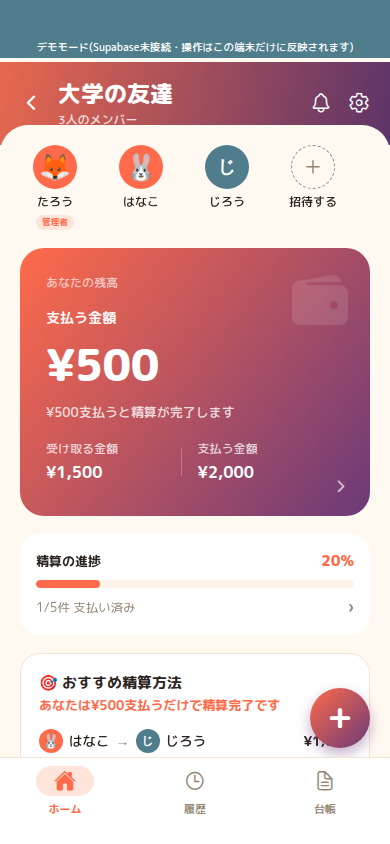
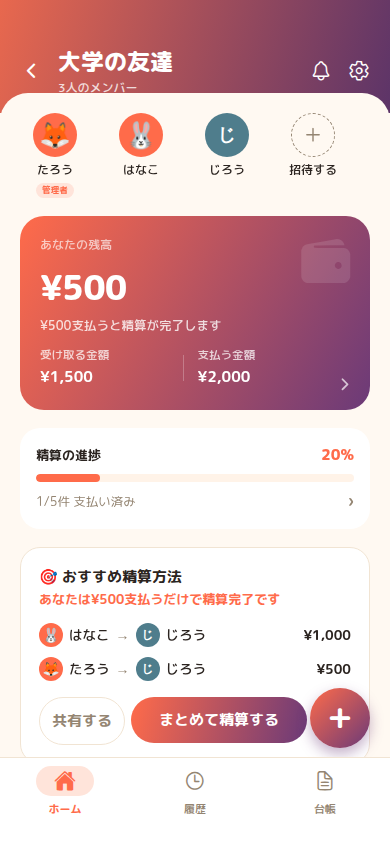
kashikari: デモモードバナーを削除、残高カードのサイズ調整
「デモモードの上部は消せないの？大学の友達タブと重なってしまってる」
「あなたの残高の欄が画像と比べて大きすぎるからサイズ調整して」
「あなたの残高の下の支払う金額はいらない」の3点への対応。
スキーマ変更なし。

- DemoGroupScreen.tsxのヘッダーに重なっていた「デモモード」バナーを
  削除。バナーが兼ねていたステータスバー避けの余白は、削除にあわせて
  ヘッダー自体のpaddingTopを本番のGroupScreen.tsxと同じ値(44)に戻した
- NetSummary.tsx(残高カード)のpadding・金額のフォントサイズ・各要素
  間の余白を全体的に詰め、参考画像に近いサイズに縮小した
- 見出し(「あなたの残高」)のすぐ下にあった「支払う金額/受け取る金額」
  ラベルを削除(下の説明文で方向は伝わるため重複していた)
- 未使用になったdemo.bannerのi18n文字列(ja/en)も削除

tsc --noEmit / expo export --platform web(通常+デモモード)とも
問題なし。Playwrightでバナーが消えていること・残高カードが縮小
されていることを確認済み。

Claude-Session: https://claude.ai/code/session_016w6H5fipiVvbtfX7sgu87W

diff --git a/personal-side-projects/kashikari/mobile/src/components/NetSummary.tsx b/personal-side-projects/kashikari/mobile/src/components/NetSummary.tsx
@@ -48,11 +48,7 @@ export default function NetSummary({ totals, balances, meId }: Props) {
           シェブロン(装飾。すぐ下に内訳セクションが続くため、タップ先は
           別途持たせていない)を添えた。「主役は金額」という指摘を受け、
           財布アイコンは金額の邪魔にならないよう、より薄くしている。 */}
-      <Ionicons name="wallet" size={64} color="rgba(255,255,255,0.12)" style={styles.walletIcon} />
-      {/* 「『あなたの残高』と『支払う金額』が混同しやすい」という指摘への
-          対応: 見出し(heading)はグループ名の下にある小さな添え書きとして
-          さらに控えめにし、「支払う金額/受け取る金額」のラベルを金額の
-          直前に来る一番の主張点として太さ・不透明度を上げた。 */}
+      <Ionicons name="wallet" size={56} color="rgba(255,255,255,0.12)" style={styles.walletIcon} />
       <Text style={styles.heading}>{t.netSummary.heading}</Text>
       {totals.map((total, i) => {
         const owed = total.amount > 0; // 正値 = 自分が受け取る側(lib/balances.tsのNetTotal参照)
@@ -66,7 +62,9 @@ export default function NetSummary({ totals, balances, meId }: Props) {
         const amountStr = formatMoney(Math.abs(total.amount), total.currency);
         return (
           <View key={total.currency} style={[styles.line, i > 0 && styles.lineDivider]}>
-            <Text style={styles.label}>{owed ? t.netSummary.receiving : t.netSummary.paying}</Text>
+            {/* 「あなたの残高の下の支払う金額はいらない」という指摘を受け、
+                見出し(heading)のすぐ下にあった「支払う金額/受け取る金額」
+                ラベルを削除した。方向は下の説明文(actionHint)で伝わる。 */}
             <Text style={styles.amount}>{amountStr}</Text>
             {/* 「何をすべきか分かる説明を追加してもよい」という指摘への対応。 */}
             <Text style={styles.actionHint}>
@@ -94,37 +92,27 @@ export default function NetSummary({ totals, balances, meId }: Props) {
 }
 
 const styles = StyleSheet.create({
-  // 「カード内の余白を少し増やして窮屈感をなくす」「カード間の余白も
-  // 統一する」という指摘を受け、paddingとmarginBottomをそれぞれ増やした
-  // (他のカードのmarginBottom:18と揃えている)。
-  card: { borderRadius: 24, padding: 26, marginBottom: 18, overflow: 'hidden' },
-  walletIcon: { position: 'absolute', top: 18, right: 18 },
-  chevron: { position: 'absolute', bottom: 20, right: 20 },
-  // 「『あなたの残高』と『支払う金額』が混同しやすい」という指摘への
-  // 対応で、headingはより控えめな添え書きに(不透明度を下げた)。
+  // 「画像と比べて大きすぎる」という指摘を受け、padding・金額の
+  // フォントサイズ・各要素間の余白を全体的に詰めた(以前の見直しで
+  // 逆に広げすぎていた)。
+  card: { borderRadius: 24, padding: 20, marginBottom: 18, overflow: 'hidden' },
+  walletIcon: { position: 'absolute', top: 16, right: 16 },
+  chevron: { position: 'absolute', bottom: 16, right: 16 },
   heading: {
     ...fonts.bodyMedium,
     fontSize: 12,
     color: 'rgba(255,255,255,0.65)',
-    marginBottom: 10,
+    marginBottom: 6,
   },
-  line: { paddingVertical: 6 },
-  lineDivider: { marginTop: 6, borderTopWidth: 1, borderTopColor: 'rgba(255,255,255,0.22)', paddingTop: 14 },
-  // labelは「支払う金額/受け取る金額」— 金額の直前に来る、実質的な
-  // メインの見出し。headingより濃く・太くして主張を強めている。
-  label: {
-    ...fonts.bodySemiBold,
-    fontSize: 14,
-    color: 'rgba(255,255,255,0.95)',
-    marginBottom: 4,
-  },
-  amount: { ...fonts.display, fontSize: 44, color: '#fff', letterSpacing: -0.5 },
-  actionHint: { ...fonts.bodyMedium, fontSize: 13, color: 'rgba(255,255,255,0.8)', marginTop: 6 },
-  grossRow: { flexDirection: 'row', alignItems: 'center', marginTop: 18, paddingRight: 28 },
+  line: { paddingVertical: 2 },
+  lineDivider: { marginTop: 4, borderTopWidth: 1, borderTopColor: 'rgba(255,255,255,0.22)', paddingTop: 10 },
+  amount: { ...fonts.display, fontSize: 34, color: '#fff', letterSpacing: -0.5 },
+  actionHint: { ...fonts.bodyMedium, fontSize: 12.5, color: 'rgba(255,255,255,0.8)', marginTop: 4 },
+  grossRow: { flexDirection: 'row', alignItems: 'center', marginTop: 12, paddingRight: 24 },
   grossCol: { flex: 1 },
-  grossDivider: { width: 1, height: 28, backgroundColor: 'rgba(255,255,255,0.25)', marginHorizontal: 16 },
-  grossLabel: { ...fonts.bodyMedium, fontSize: 12, color: 'rgba(255,255,255,0.75)', marginBottom: 3 },
-  grossAmount: { ...fonts.bodySemiBold, fontSize: 16, color: '#fff' },
+  grossDivider: { width: 1, height: 26, backgroundColor: 'rgba(255,255,255,0.25)', marginHorizontal: 14 },
+  grossLabel: { ...fonts.bodyMedium, fontSize: 11.5, color: 'rgba(255,255,255,0.75)', marginBottom: 2 },
+  grossAmount: { ...fonts.bodySemiBold, fontSize: 15, color: '#fff' },
   settledWrap: {
     backgroundColor: colors.surface,
     borderRadius: 20,

diff --git a/personal-side-projects/kashikari/mobile/src/demo/DemoGroupScreen.tsx b/personal-side-projects/kashikari/mobile/src/demo/DemoGroupScreen.tsx
@@ -278,9 +278,9 @@ export default function DemoGroupScreen({ onBack, onOpenSettings }: { onBack: ()
 
   const header = (
     <View>
-      <View style={styles.demoBanner}>
-        <Text style={styles.demoBannerText}>{t.demo.banner}</Text>
-      </View>
+      {/* 「デモモードの上部は消せないの？大学の友達タブと重なってしまってる」
+          という指摘を受け、ヘッダーに重なっていたバナーを削除した。
+          デモモードであること自体は、設定画面などから引き続き分かる。 */}
       <View style={styles.headerShadowWrap}>
         <LinearGradient colors={[colors.headerAccent, colors.headerPlum]} start={{ x: 0, y: 0 }} end={{ x: 1, y: 1 }} style={styles.headerGradient}>
           <View style={styles.headerRow}>
@@ -517,32 +517,15 @@ export default function DemoGroupScreen({ onBack, onOpenSettings }: { onBack: ()
 
 const styles = StyleSheet.create({
   wrap: { flex: 1, backgroundColor: colors.bg },
-  // 「デモモード表示は高さを少し小さくし、薄いバナー程度にしてメインUIへの
-  // 影響を減らす」という指摘を受け、上下の余白とフォントサイズを縮小した。
-  demoBanner: { backgroundColor: colors.favor, marginHorizontal: -20, paddingVertical: 3, paddingHorizontal: 16, paddingTop: 40, marginBottom: 4 },
-  demoBannerText: { ...fonts.bodyMedium, fontSize: 10.5, color: '#fff', textAlign: 'center' },
   list: { paddingHorizontal: 20, paddingBottom: 100 },
-  // デモバナー自体がステータスバー分のpaddingTopを持っているため、ここでは
-  // 本番のGroupScreen.tsxより控えめなpaddingTopにしている。
-  // overflow:'hidden'を付けないと、上下非対称なborderRadiusが
-  // LinearGradientで正しく反映されないことがあるため明示している。
-  // 「ふちが逆になっている」という指摘を受けて再修正: 画面端まで塗り
-  // 広げるバナー的な扱いをやめ、参考画像通り左右にも余白を持たせた
-  // 「浮いたカード」として四隅すべてを丸める形に変更した(GroupScreen.tsx
-  // と同じ)。デモバナー自体が既にステータスバー分の余白を持っている
-  // ため、ここでのmarginTopは小さめでよい。
-  // 影(shadow)はoverflow:'hidden'を持つViewには描画されないため、
-  // 影を持つ外側のラッパーと、角丸+クリップ用の内側のViewを分けている。
-  // デモバナー自体が既にステータスバー分の余白を持っているため、
-  // ここのpaddingTopはGroupScreen.tsxより控えめでよい。
-  // 「下部分の角丸を削除し、重なる部分まで自然に伸ばして下のコンテンツと
-  // 一体化させる」という指摘への対応(GroupScreen.tsxと同じ)。
+  // デモモードバナーを削除したため、ステータスバー避けの余白は本番の
+  // GroupScreen.tsxと同じpaddingTop(44)に戻している。
   headerShadowWrap: {
     marginHorizontal: -20,
     marginBottom: 0,
   },
   headerGradient: {
-    paddingTop: 14,
+    paddingTop: 44,
     paddingHorizontal: 20,
     paddingBottom: 16,
   },

diff --git a/personal-side-projects/kashikari/mobile/src/i18n/strings.ts b/personal-side-projects/kashikari/mobile/src/i18n/strings.ts
@@ -256,7 +256,6 @@ export const ja = {
     settlementClosing: 'よろしくお願いします!',
   },
   demo: {
-    banner: 'デモモード(Supabase未接続・操作はこの端末だけに反映されます)',
     createDisabled: 'デモモードでは作成できません',
     joinDisabled: 'デモモードでは参加できません',
     inviteDisabled: 'デモモードでは招待できません',
@@ -506,7 +505,6 @@ export const en: Strings = {
     settlementClosing: 'Thanks!',
   },
   demo: {
-    banner: 'Demo mode (not connected to Supabase — changes only affect this device)',
     createDisabled: "Can't create groups in demo mode",
     joinDisabled: "Can't join groups in demo mode",
     inviteDisabled: "Can't invite in demo mode",
